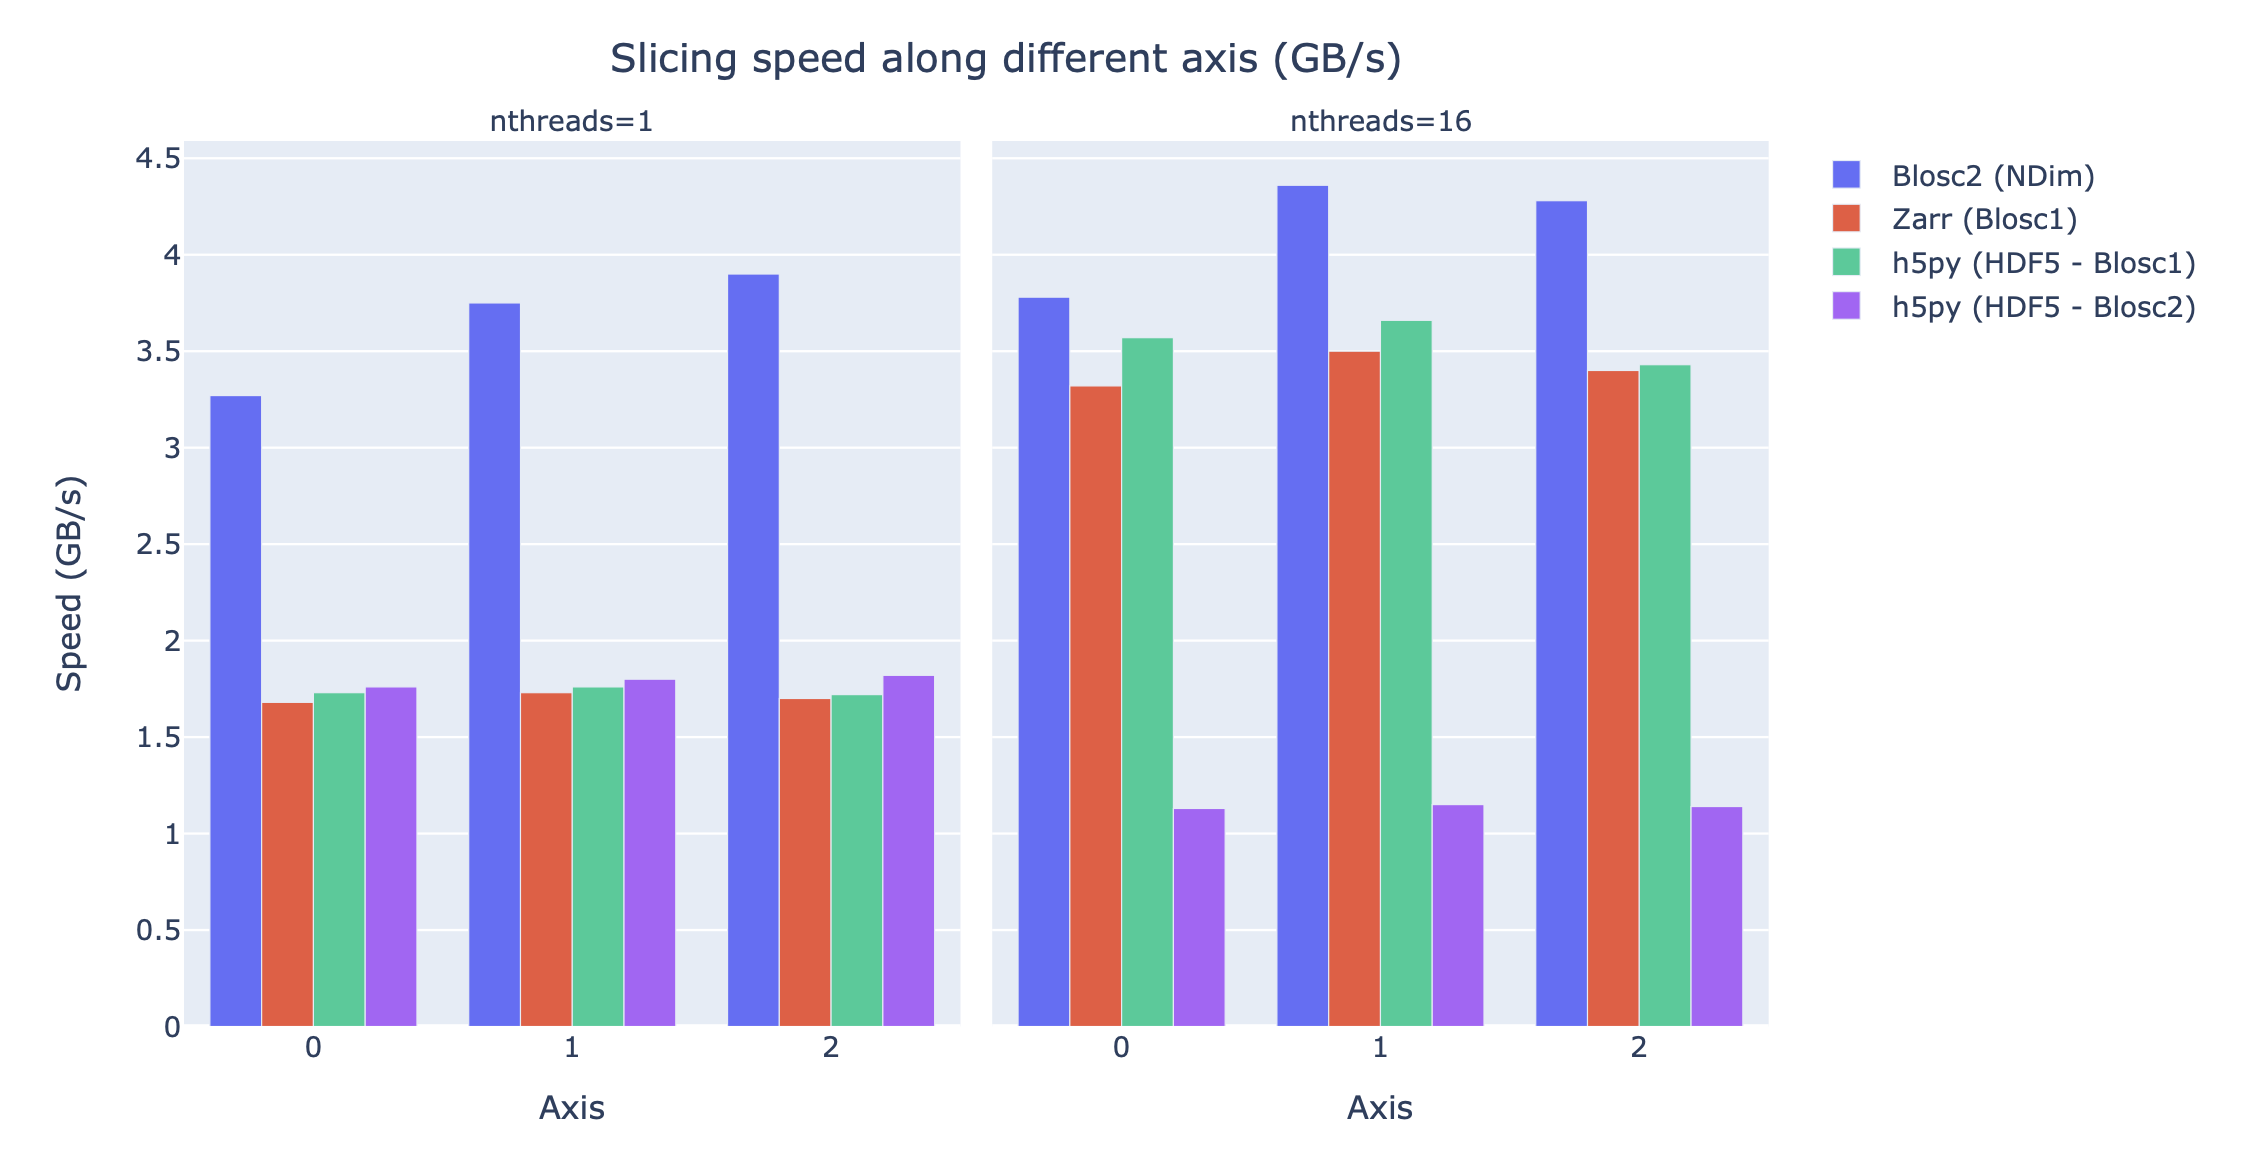
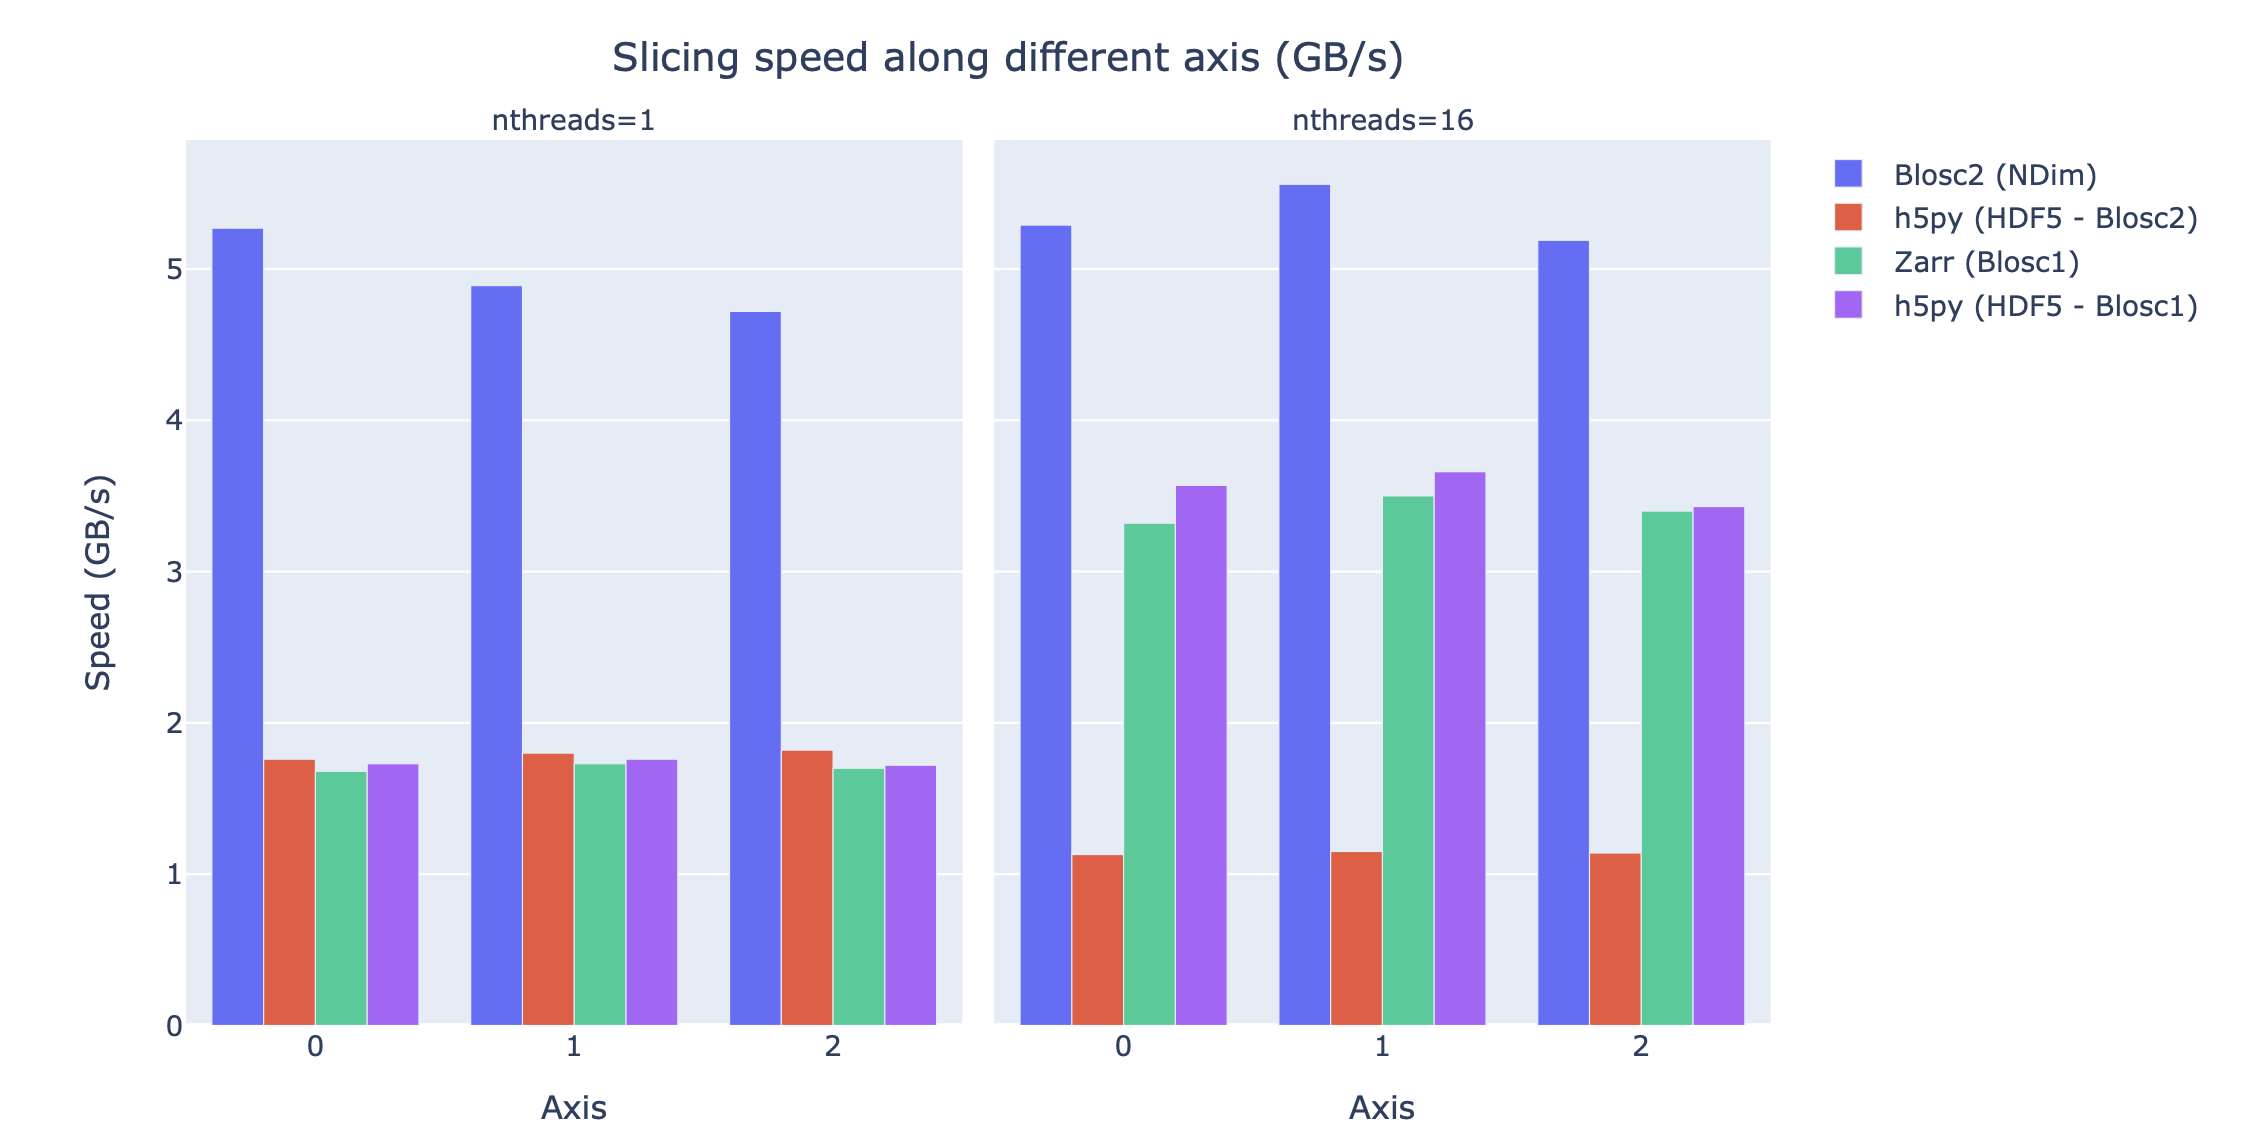
New plots on performance with different threads

diff --git a/papers/Francesc_Alted/Blosc2_NDim.rst b/papers/Francesc_Alted/Blosc2_NDim.rst
@@ -254,9 +254,9 @@ We will use the training results above to compress the big 3D Gaia array so that
 
 .. figure:: slicing-speed-filters.png
 
-   Speed of obtaining multiple multidimensional slices of the Gaia dataset along different axes, for different codecs and filters. The speed is measured in GB/s, so a higher value is better. :label:`slicing-speed-filters`
+   Speed of obtaining multiple multidimensional slices of the Gaia dataset along different axes, for different codecs, filters and different number of threads. The speed is measured in GB/s, so a higher value is better. :label:`slicing-speed-filters`
 
-These results indicate that the fastest compression is achieved with BloscLZ (compression level 5, no filters), closely followed by Zstd (compression level 9, no filters), exactly as the neural network model predicted. While decompression speed is not the only metric to consider for fast operation, as obtaining completely general multidimensional slices can be costly due to internal copies, it does provide a good indication of the overall performance of the decompression process.
+These results indicate that the fastest compression is achieved with BloscLZ (compression level 5, no filters), closely followed by Zstd (compression level 9, no filters), exactly as the neural network model predicted.  Also, note how the fastest decompression codecs, BloscLZ and also Zstd, are not affected very much by the number of threads used, which means that they are not CPU-bound, so small computers or laptops with low core counts will be able to reach good speeds.
 
 Now, let's compare the figures above with other libraries that can handle multidimensional data. Figure :ref:`gaia-blosclz` shows the slicing speed of the 3D array when applying BloscLZ, the best predicted codec for speed, and we compare that speed against other libraries using the same codec but with the previous Blosc1 generation (Zarr and h5py), and also against Blosc2 via the hdf5plugin :cite:`hdf5plugin` and h5py. Results show that the data can be explored significantly faster using Blosc2 NDim with the BloscLZ codec. It is also interesting to note that the speed of Blosc2 NDim with BloscLZ is not much affected by the number of threads used, which is a welcome surprise, and probably an indication that the internal zero-suppression mechanism inside Blosc2 works efficiently without the need of multi-threading.
 
@@ -266,7 +266,7 @@ Now, let's compare the figures above with other libraries that can handle multid
 
 Regarding compression ratio, Figure :ref:`gaia-sizes` shows the results of compressing the Gaia dataset with Blosc2 NDim with BloscLZ, and we compare that ratio against other libraries using the same codec but with the previous Blosc1 generation (Zarr and h5py), and also against Blosc2 via the hdf5plugin and h5py. Results show that the data can be compressed significantly better using Blosc2. This is because Blosc2 comes with a new and powerful zero-detection mechanism that is able to efficiently handle and compress the many zeros that are present in the Gaia dataset.
 
-.. figure:: filesizes-blosc2-vs-blosc2.png
+.. figure:: filesizes-blosc1-vs-blosc2.png
 
    Compressing the Gaia dataset with BloscLZ using different libraries. Note how using Blosc2 provides significantly better compression ratios than using Blosc1 for this Gaia 3D sparse dataset. :label:`gaia-sizes`
 
